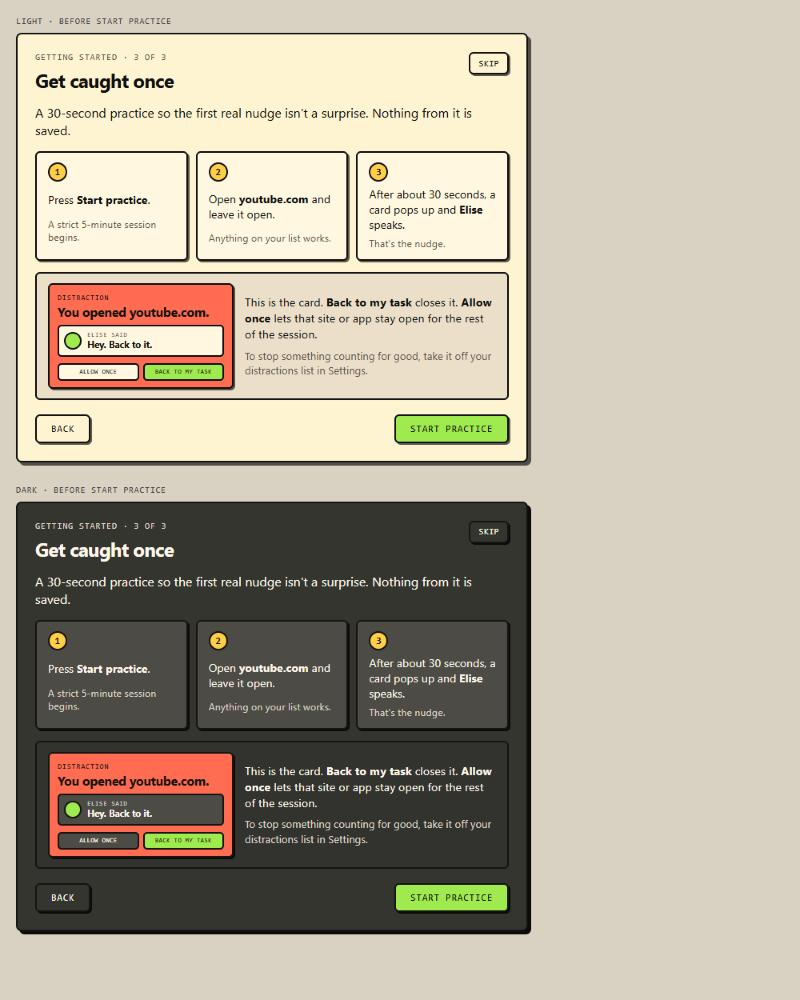
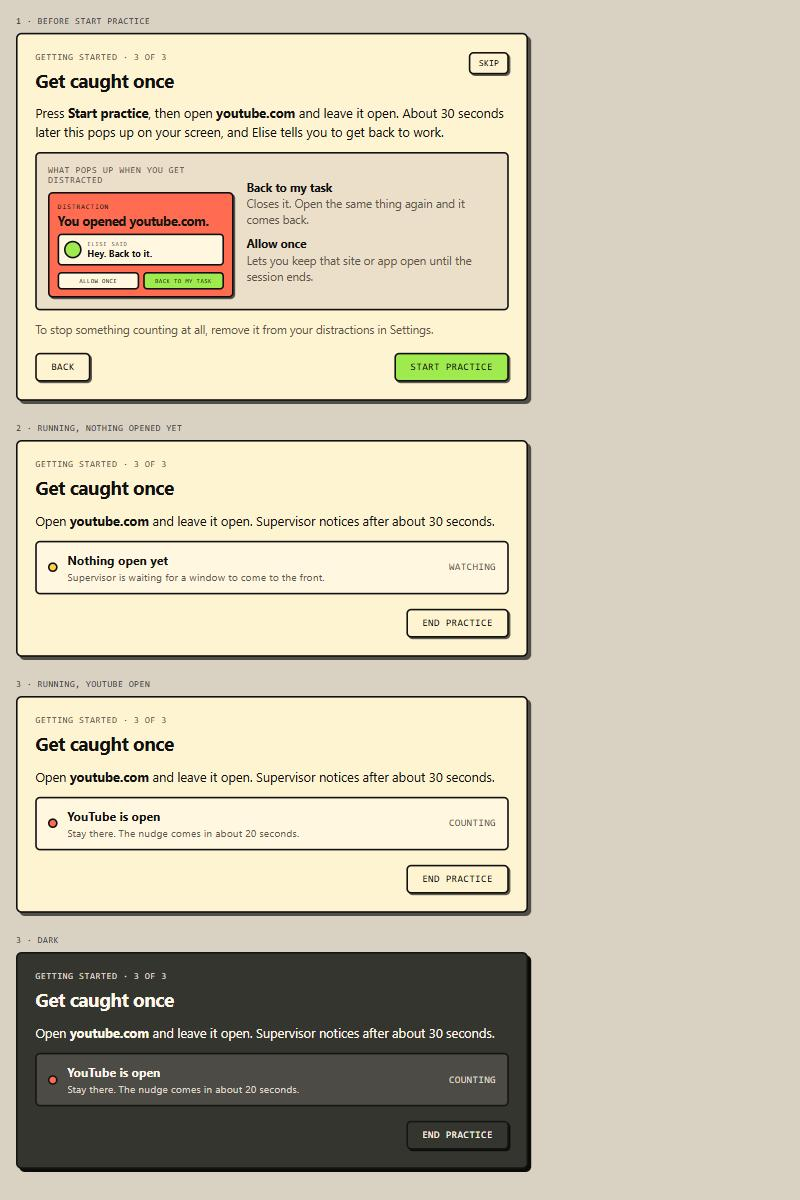
History: Trends empty line under its title, This week tiles stay right of the note, no week before the first session is reachable. Practice step mock-up rewritten

diff --git a/plans/practice-step-mockup.html b/plans/practice-step-mockup.html
@@ -5,8 +5,8 @@
 <title>Practice step mock-up</title>
 <style>
   * { box-sizing: border-box; }
-  .t { --canvas:#f4ead7; --panel:#fff4cf; --panel-alt:#eadfc9; --ink:#101010; --muted:#5d564a; --border-c:#101010; --shadow-c:rgba(17,16,14,.68); --green:#a8eb37; --yellow:#ffcf31; --coral:#ff684f; --cink:#141410; --soft:#fff7df; --grid:rgba(16,16,16,.1); }
-  .t.dark { --canvas:#40403c; --panel:#353530; --panel-alt:#32322e; --ink:#fff8e9; --muted:#ddd5c5; --border-c:#151512; --shadow-c:#0b0b09; --soft:#4c4b46; --grid:rgba(255,255,255,.12); }
+  .t { --canvas:#f4ead7; --panel:#fff4cf; --panel-alt:#eadfc9; --ink:#101010; --muted:#5d564a; --border-c:#101010; --shadow-c:rgba(17,16,14,.68); --green:#a8eb37; --yellow:#ffcf31; --coral:#ff684f; --cink:#141410; --soft:#fff7df; }
+  .t.dark { --canvas:#40403c; --panel:#353530; --panel-alt:#32322e; --ink:#fff8e9; --muted:#ddd5c5; --border-c:#151512; --shadow-c:#0b0b09; --soft:#4c4b46; }
   body { margin:0; padding:20px; background:#d9d2c2; font-family: Inter, "Segoe UI", system-ui, sans-serif; display:grid; gap:28px; justify-content:start; }
   .label { font-family: Consolas, ui-monospace, monospace; font-size:11px; color:#444; margin:0 0 8px; text-transform:uppercase; letter-spacing:.06em; }
   .t { width:640px; padding:22px; display:grid; gap:14px; border:2px solid var(--border-c); border-radius:7px; background:var(--panel); box-shadow:4px 4px 0 var(--shadow-c); color:var(--ink); }
@@ -14,16 +14,11 @@
   .eyebrow { margin:0; font-family: Consolas, ui-monospace, monospace; font-size:.68rem; letter-spacing:.08em; text-transform:uppercase; color:var(--muted); }
   h2 { margin:6px 0 0; font-size:1.5rem; font-weight:750; letter-spacing:-.03em; }
   .small { height:28px; padding:0 10px; border:2px solid var(--border-c); border-radius:6px; background:var(--panel); color:var(--ink); box-shadow:2px 2px 0 var(--shadow-c); font-family: Consolas, ui-monospace, monospace; font-size:.68rem; letter-spacing:.04em; text-transform:uppercase; }
-  .copy { margin:0; font-size:1rem; line-height:1.4; }
-  .where { margin:0; color:var(--muted); font-size:.9rem; }
-  /* What will happen: three numbered steps in one block. */
-  .steps { display:grid; grid-template-columns:repeat(3, minmax(0,1fr)); gap:10px; }
-  .step { display:grid; gap:6px; padding:12px 14px; border:2px solid var(--border-c); border-radius:6px; background:var(--soft); box-shadow:2px 2px 0 var(--shadow-c); }
-  .step b { display:inline-grid; place-items:center; width:24px; height:24px; border:2px solid var(--border-c); border-radius:50%; background:var(--yellow); color:var(--cink); font-family: Consolas, ui-monospace, monospace; font-size:.78rem; }
-  .step span { font-size:.88rem; line-height:1.35; }
-  .step small { color:var(--muted); font-size:.78rem; }
-  /* A small preview of the card the practice ends with. */
-  .preview { display:grid; grid-template-columns: 232px minmax(0,1fr); gap:14px; align-items:center; padding:12px 14px; border:2px solid var(--border-c); border-radius:6px; background:var(--panel-alt); }
+  .copy { margin:0; font-size:1rem; line-height:1.45; }
+  .where { margin:0; color:var(--muted); font-size:.9rem; line-height:1.4; }
+  /* The card that pops up, shown small, with what each button does beside it. */
+  .preview { display:grid; grid-template-columns: 232px minmax(0,1fr); gap:16px; align-items:center; padding:14px; border:2px solid var(--border-c); border-radius:6px; background:var(--panel-alt); }
+  .preview .cap { font-family: Consolas, ui-monospace, monospace; font-size:.68rem; letter-spacing:.08em; text-transform:uppercase; color:var(--muted); margin:0 0 8px; }
   .card { border:2px solid var(--border-c); border-radius:6px; background:var(--coral); color:var(--cink); padding:10px 10px 8px; box-shadow:2px 2px 0 var(--shadow-c); font-size:.72rem; }
   .card .k { font-family: Consolas, ui-monospace, monospace; font-size:.58rem; letter-spacing:.08em; text-transform:uppercase; }
   .card h3 { margin:2px 0 6px; font-size:1rem; font-weight:750; letter-spacing:-.02em; }
@@ -34,60 +29,66 @@
   .card .b { display:grid; grid-template-columns:1fr 1fr; gap:5px; margin-top:8px; }
   .card .b span { display:grid; place-items:center; height:22px; border:2px solid var(--border-c); border-radius:5px; background:var(--soft); color:var(--ink); font-family: Consolas, ui-monospace, monospace; font-size:.5rem; letter-spacing:.04em; text-transform:uppercase; }
   .card .b span.p { background:var(--green); color:var(--cink); }
-  .preview p { margin:0; font-size:.9rem; line-height:1.4; }
-  .preview p + p { margin-top:8px; color:var(--muted); font-size:.82rem; }
+  .preview dl { margin:0; display:grid; gap:10px; font-size:.9rem; line-height:1.4; }
+  .preview dt { font-weight:700; }
+  .preview dd { margin:0; color:var(--muted); }
+  /* Running: what Supervisor sees right now, as a live row. */
+  .live { display:grid; grid-template-columns:auto minmax(0,1fr) auto; align-items:center; gap:12px; padding:12px 14px; border:2px solid var(--border-c); border-radius:6px; background:var(--soft); }
+  .live i { width:12px; height:12px; border-radius:50%; border:2px solid var(--border-c); background:var(--yellow); }
+  .live.hit i { background:var(--coral); }
+  .live b { display:block; font-size:.95rem; }
+  .live small { display:block; color:var(--muted); font-size:.82rem; margin-top:2px; }
+  .live .t2 { font-family: Consolas, ui-monospace, monospace; font-size:.78rem; letter-spacing:.04em; text-transform:uppercase; color:var(--muted); }
   .actions { display:flex; justify-content:space-between; align-items:center; margin-top:4px; }
   .btn { height:36px; padding:0 18px; border:2px solid var(--border-c); border-radius:6px; background:var(--panel); color:var(--ink); box-shadow:2px 2px 0 var(--shadow-c); font-family: Consolas, ui-monospace, monospace; font-size:.78rem; letter-spacing:.04em; text-transform:uppercase; }
   .btn.p { background:var(--green); color:var(--cink); }
 </style>
 </head>
 <body>
-<div><p class="label">Light · before Start practice</p>
+<div><p class="label">1 · Before Start practice</p>
 <section class="t">
   <div class="head"><div><p class="eyebrow">Getting started · 3 of 3</p><h2>Get caught once</h2></div><button class="small">Skip</button></div>
-  <p class="copy">A 30-second practice so the first real nudge isn't a surprise. Nothing from it is saved.</p>
-  <div class="steps">
-    <div class="step"><b>1</b><span>Press <strong>Start practice</strong>.</span><small>A strict 5-minute session begins.</small></div>
-    <div class="step"><b>2</b><span>Open <strong>youtube.com</strong> and leave it open.</span><small>Anything on your list works.</small></div>
-    <div class="step"><b>3</b><span>After about 30 seconds, a card pops up and <strong>Elise</strong> speaks.</span><small>That's the nudge.</small></div>
-  </div>
+  <p class="copy">Press <strong>Start practice</strong>, then open <strong>youtube.com</strong> and leave it open. About 30 seconds later this pops up on your screen, and Elise tells you to get back to work.</p>
   <div class="preview">
-    <div class="card">
-      <div class="k">Distraction</div>
-      <h3>You opened youtube.com.</h3>
-      <div class="v"><i></i><div><small>Elise said</small><em>Hey. Back to it.</em></div></div>
-      <div class="b"><span>Allow once</span><span class="p">Back to my task</span></div>
+    <div><p class="cap">What pops up when you get distracted</p>
+      <div class="card">
+        <div class="k">Distraction</div>
+        <h3>You opened youtube.com.</h3>
+        <div class="v"><i></i><div><small>Elise said</small><em>Hey. Back to it.</em></div></div>
+        <div class="b"><span>Allow once</span><span class="p">Back to my task</span></div>
+      </div>
     </div>
-    <div>
-      <p>This is the card. <strong>Back to my task</strong> closes it. <strong>Allow once</strong> lets that site or app stay open for the rest of the session.</p>
-      <p>To stop something counting for good, take it off your distractions list in Settings.</p>
-    </div>
+    <dl>
+      <div><dt>Back to my task</dt><dd>Closes it. Open the same thing again and it comes back.</dd></div>
+      <div><dt>Allow once</dt><dd>Lets you keep that site or app open until the session ends.</dd></div>
+    </dl>
   </div>
+  <p class="where">To stop something counting at all, remove it from your distractions in Settings.</p>
   <div class="actions"><button class="btn">Back</button><button class="btn p">Start practice</button></div>
 </section></div>
 
-<div><p class="label">Dark · before Start practice</p>
+<div><p class="label">2 · Running, nothing opened yet</p>
+<section class="t">
+  <div class="head"><div><p class="eyebrow">Getting started · 3 of 3</p><h2>Get caught once</h2></div></div>
+  <p class="copy">Open <strong>youtube.com</strong> and leave it open. Supervisor notices after about 30 seconds.</p>
+  <div class="live"><i></i><div><b>Nothing open yet</b><small>Supervisor is waiting for a window to come to the front.</small></div><span class="t2">Watching</span></div>
+  <div class="actions"><span></span><button class="btn">End practice</button></div>
+</section></div>
+
+<div><p class="label">3 · Running, YouTube open</p>
+<section class="t">
+  <div class="head"><div><p class="eyebrow">Getting started · 3 of 3</p><h2>Get caught once</h2></div></div>
+  <p class="copy">Open <strong>youtube.com</strong> and leave it open. Supervisor notices after about 30 seconds.</p>
+  <div class="live hit"><i></i><div><b>YouTube is open</b><small>Stay there. The nudge comes in about 20 seconds.</small></div><span class="t2">Counting</span></div>
+  <div class="actions"><span></span><button class="btn">End practice</button></div>
+</section></div>
+
+<div><p class="label">3 · Dark</p>
 <section class="t dark">
-  <div class="head"><div><p class="eyebrow">Getting started · 3 of 3</p><h2>Get caught once</h2></div><button class="small">Skip</button></div>
-  <p class="copy">A 30-second practice so the first real nudge isn't a surprise. Nothing from it is saved.</p>
-  <div class="steps">
-    <div class="step"><b>1</b><span>Press <strong>Start practice</strong>.</span><small>A strict 5-minute session begins.</small></div>
-    <div class="step"><b>2</b><span>Open <strong>youtube.com</strong> and leave it open.</span><small>Anything on your list works.</small></div>
-    <div class="step"><b>3</b><span>After about 30 seconds, a card pops up and <strong>Elise</strong> speaks.</span><small>That's the nudge.</small></div>
-  </div>
-  <div class="preview">
-    <div class="card">
-      <div class="k">Distraction</div>
-      <h3>You opened youtube.com.</h3>
-      <div class="v"><i></i><div><small>Elise said</small><em>Hey. Back to it.</em></div></div>
-      <div class="b"><span>Allow once</span><span class="p">Back to my task</span></div>
-    </div>
-    <div>
-      <p>This is the card. <strong>Back to my task</strong> closes it. <strong>Allow once</strong> lets that site or app stay open for the rest of the session.</p>
-      <p>To stop something counting for good, take it off your distractions list in Settings.</p>
-    </div>
-  </div>
-  <div class="actions"><button class="btn">Back</button><button class="btn p">Start practice</button></div>
+  <div class="head"><div><p class="eyebrow">Getting started · 3 of 3</p><h2>Get caught once</h2></div></div>
+  <p class="copy">Open <strong>youtube.com</strong> and leave it open. Supervisor notices after about 30 seconds.</p>
+  <div class="live hit"><i></i><div><b>YouTube is open</b><small>Stay there. The nudge comes in about 20 seconds.</small></div><span class="t2">Counting</span></div>
+  <div class="actions"><span></span><button class="btn">End practice</button></div>
 </section></div>
 </body>
 </html>

diff --git a/src/main.ts b/src/main.ts
@@ -4204,10 +4204,16 @@ async function fetchShareMonth(): Promise<MonthRecap | null> {
   }
 }
 
+/** The Monday of the first recorded week. With no history yet it is this week: nothing
+ *  before the app was in use can be reached, by arrow or by picker. */
+function oldestWeekMonday(): string {
+  return historyWeek?.oldest_day ? mondayKey(historyWeek.oldest_day) : thisMondayKey();
+}
+
 function renderHistoryToolbar(weekStart: string): string {
-  const oldestMonday = historyWeek?.oldest_day ? mondayKey(historyWeek.oldest_day) : null;
+  const oldestMonday = oldestWeekMonday();
   const current = thisMondayKey();
-  const prevDisabled = !oldestMonday || weekStart <= oldestMonday;
+  const prevDisabled = weekStart <= oldestMonday;
   const nextDisabled = weekStart >= current;
   const tag = weekStart === current ? "This week" : weekStart === addDaysKey(current, -7) ? "Last week" : "";
   return `
@@ -4251,20 +4257,20 @@ const PICKER_GRID_DAYS = 42;
 
 /** A month of days, shaded by focused time, with the viewed week outlined; a click picks that
  * day's week. */
-function renderWeekPicker(weekStart: string, oldestMonday: string | null): string {
+function renderWeekPicker(weekStart: string, oldestMonday: string): string {
   const month = pickerMonth || monthKey(weekStart);
   const today = dayKey(new Date());
   const currentMonth = monthKey(today);
   const weekEnd = addDaysKey(weekStart, 6);
   const gridStart = pickerGridStart(month);
-  const prevDisabled = !oldestMonday || month <= monthKey(oldestMonday);
+  const prevDisabled = month <= monthKey(oldestMonday);
   const nextDisabled = month >= currentMonth;
   const title = parseDayKey(month).toLocaleDateString(undefined, { month: "long", year: "numeric" });
   const cells = Array.from({ length: PICKER_GRID_DAYS }, (_, index) => {
     const day = addDaysKey(gridStart, index);
     const inMonth = day.slice(0, 7) === month.slice(0, 7);
     // Nothing before the first recorded week, same bound as the ‹ arrow.
-    const future = day > today || (oldestMonday !== null && mondayKey(day) < oldestMonday);
+    const future = day > today || mondayKey(day) < oldestMonday;
     const focus = pickerDays[day]?.focus_seconds ?? 0;
     const level = focus <= 0 ? "" : focus >= 90 * 60 ? "l3" : focus >= 25 * 60 ? "l2" : "l1";
     const classes = [
@@ -4338,7 +4344,7 @@ function renderWeekHero(weekStart: string, recap: WeekRecap | null, animate: boo
     ? ""
     : empty
       ? current
-        ? "No sessions yet this week. Finish one\nand today's bar fills in."
+        ? "No sessions yet this week. Finish one and today's bar fills in."
         : "No sessions that week."
       : current && recap.session_count === 1
         ? "1 session so far"
@@ -4432,7 +4438,7 @@ function renderTrendsDoor(weekStart: string, recap: WeekRecap | null, animate: b
         <p class="eyebrow">Trends</p>
         <span class="trend-door-go" aria-hidden="true">View trends ›</span>
       </div>
-      <div class="trend-door-line">
+      <div class="trend-door-line ${weeks.length === 0 && recap ? "is-stacked" : ""}">
         <strong class="trend-door-value">${escapeHtml(value)}</strong>
         <span class="trend-door-caption">${escapeHtml(caption)}</span>
       </div>
@@ -5844,8 +5850,7 @@ function afterPointer(paint: () => void): void {
 
 /** The picker and the toolbar button that opens it. */
 function paintWeekPicker(): void {
-  const oldestMonday = historyWeek?.oldest_day ? mondayKey(historyWeek.oldest_day) : null;
-  paintSlot("week-picker-slot", weekPickerOpen ? renderWeekPicker(historyWeekShown(), oldestMonday) : "");
+  paintSlot("week-picker-slot", weekPickerOpen ? renderWeekPicker(historyWeekShown(), oldestWeekMonday()) : "");
   const label = document.querySelector<HTMLElement>(".history-week-label");
   label?.classList.toggle("is-open", weekPickerOpen);
   label?.setAttribute("aria-expanded", String(weekPickerOpen));
@@ -6211,8 +6216,7 @@ async function runAction(action: string, source?: HTMLElement): Promise<void> {
   if (action === "pick-week") {
     const day = source?.dataset.day;
     closeWeekPicker();
-    const oldestMonday = historyWeek?.oldest_day ? mondayKey(historyWeek.oldest_day) : null;
-    if (day && day <= dayKey(new Date()) && (oldestMonday === null || mondayKey(day) >= oldestMonday)) {
+    if (day && day <= dayKey(new Date()) && mondayKey(day) >= oldestWeekMonday()) {
       historyWeekStart = mondayKey(day);
     }
     await refreshHistoryWeek();
@@ -6257,7 +6261,10 @@ async function runAction(action: string, source?: HTMLElement): Promise<void> {
 
   if (action === "history-week-prev") {
     closeWeekPicker();
-    historyWeekStart = addDaysKey(historyWeekStart || thisMondayKey(), -7);
+    const previous = addDaysKey(historyWeekStart || thisMondayKey(), -7);
+    if (previous >= oldestWeekMonday()) {
+      historyWeekStart = previous;
+    }
     await refreshHistoryWeek();
     return;
   }

diff --git a/src/styles.css b/src/styles.css
@@ -4322,8 +4322,11 @@ button.wp-day.is-future:disabled {
   line-height: 0.9;
 }
 
+/* The figure gives way first, so the two tiles stay on its right and the note wraps. */
 .week-hero-figure {
   display: grid;
+  flex: 1 1 0;
+  min-width: 0;
   gap: 6px;
 }
 
@@ -4337,6 +4340,7 @@ button.wp-day.is-future:disabled {
 
 .week-hero-stats {
   display: flex;
+  flex: none;
   flex-wrap: wrap;
   gap: 10px;
 }
@@ -4702,6 +4706,19 @@ button.share-pick:active {
   gap: 8px;
   min-width: 0;
   margin-top: 4px;
+}
+
+/* No weeks yet: the line goes under the title and reads at body size, so the card has something in it. */
+.trend-door-line.is-stacked {
+  flex-direction: column;
+  align-items: flex-start;
+  gap: 8px;
+}
+
+.trend-door-line.is-stacked .trend-door-caption {
+  max-width: 28ch;
+  font-size: var(--sv-type-3);
+  line-height: 1.35;
 }
 
 .trend-door-line .trend-door-value {
